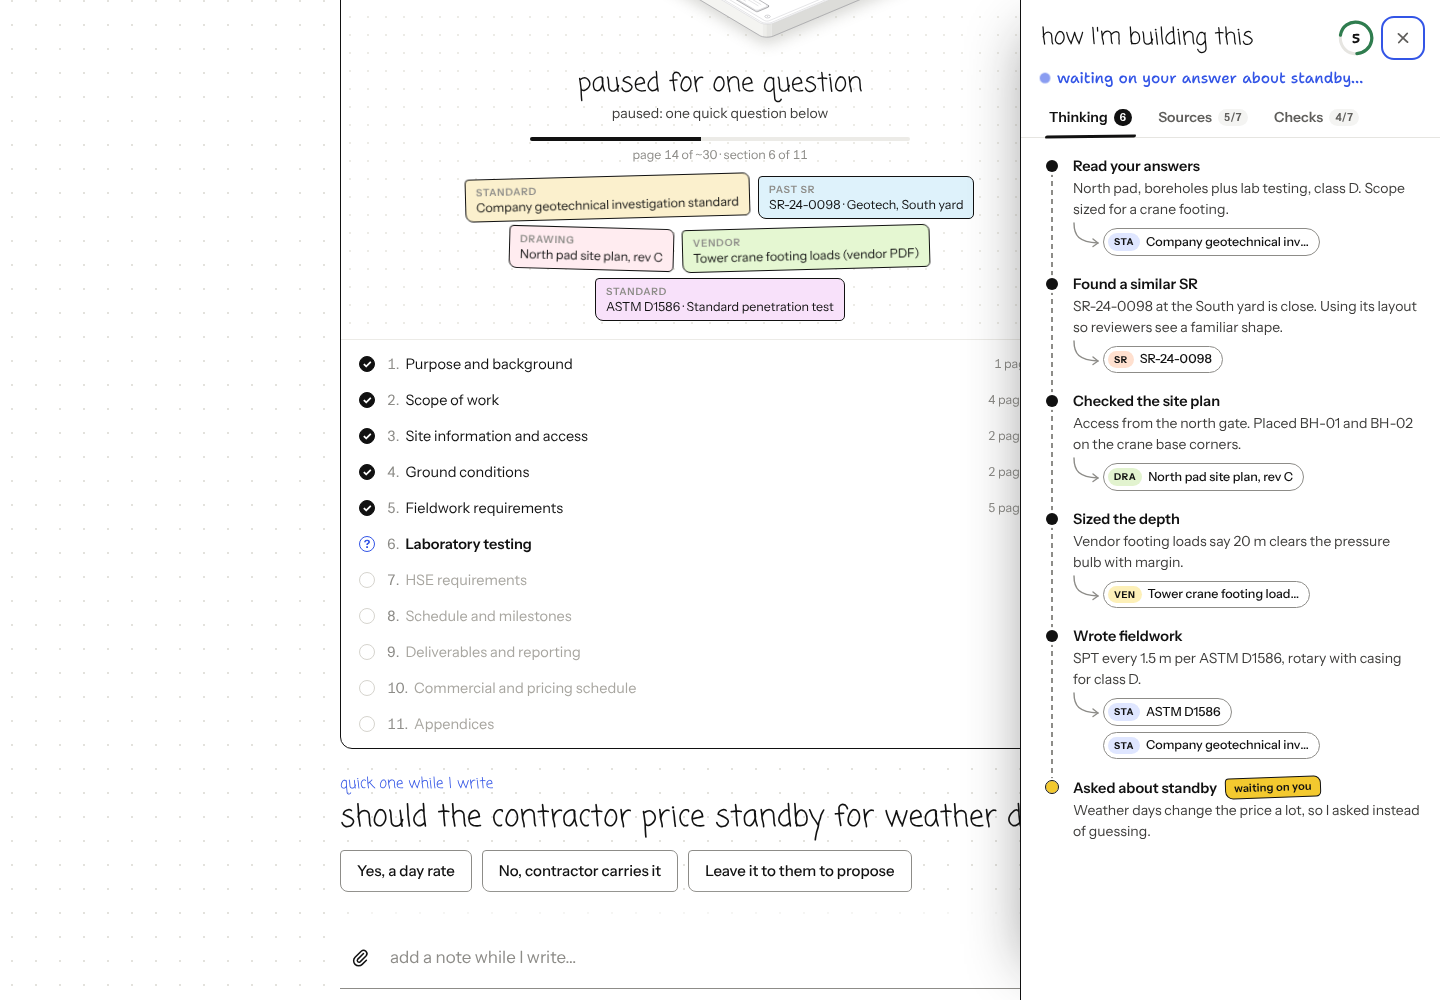
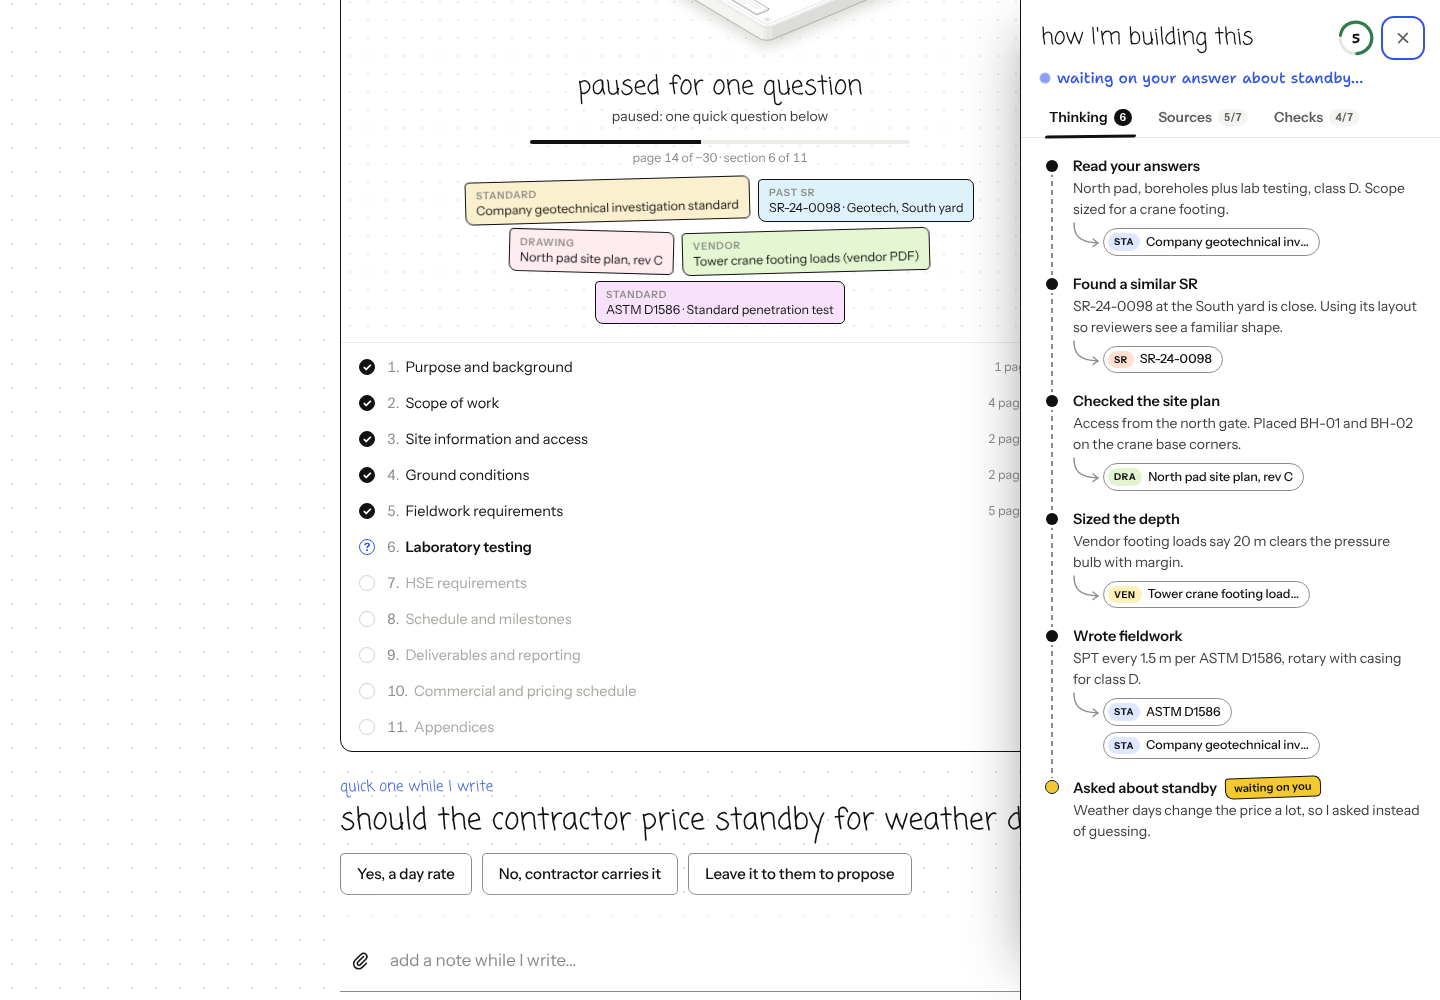
Thinking panel: drop quotes from source cards and preview; sources are internal reference docs

diff --git a/app/src/data/geotechSR.ts b/app/src/data/geotechSR.ts
@@ -58,6 +58,7 @@ export function buildOutline(answers: (string | undefined)[]): Section[] {
 
 export type SourceKind = "STANDARD" | "PAST SR" | "DRAWING" | "VENDOR" | "PROCEDURE" | "TEMPLATE";
 
+/** A reference doc the AI reads. These are stripped internal docs users don't open, so the UI shows name, type and where it was used, never quotes. */
 export interface Source {
   id: string;
   kind: SourceKind;
@@ -67,18 +68,16 @@ export interface Source {
   at: number;
   /** Where in the doc it was used. */
   sec: string;
-  /** A short quote from the source the AI relied on. */
-  quote: string;
 }
 
 export const SOURCES: Source[] = [
-  { id: "std-geo", kind: "STANDARD", title: "Company geotechnical investigation standard", why: "Clause structure, sampling and logging rules.", at: 0, sec: "§1–6", quote: "Samples shall be taken at each change in strata and at intervals not exceeding 1.5 m." },
-  { id: "sr-0098", kind: "PAST SR", title: "SR-24-0098 · Geotech, South yard", why: "A similar job. Reused the layout and the pricing schedule.", at: 1, sec: "§2, §10", quote: "Rates per metre drilled, inclusive of casing to 10 m." },
-  { id: "plan-c", kind: "DRAWING", title: "North pad site plan, rev C", why: "Gate, laydown area and borehole locations.", at: 2, sec: "§3, App. B", quote: "North gate · laydown L2 adjacent batch plant." },
-  { id: "crane-loads", kind: "VENDOR", title: "Tower crane footing loads (vendor PDF)", why: "Why 20 m depth clears the pressure bulb.", at: 3, sec: "§4", quote: "Max. bearing 410 kPa, footing 8.5 × 8.5 m." },
-  { id: "astm-d1586", kind: "STANDARD", title: "ASTM D1586 · Standard penetration test", why: "SPT method and interval in the fieldwork section.", at: 4, sec: "§5", quote: "Drive the sampler 450 mm in three 150 mm increments." },
-  { id: "ptd", kind: "PROCEDURE", title: "Permit to dig procedure", why: "Services scan and permit before each hole.", at: 6, sec: "§7", quote: "No excavation without a valid permit and a CAT scan within 24 h." },
-  { id: "price-tpl", kind: "TEMPLATE", title: "Pricing schedule template", why: "Lump sum, rates per metre, provisional sums.", at: 9, sec: "§10", quote: "Schedule A · Lump sums · Schedule B · Rates · Schedule C · Provisional sums" },
+  { id: "std-geo", kind: "STANDARD", title: "Company geotechnical investigation standard", why: "Clause structure, sampling and logging rules.", at: 0, sec: "§1–6" },
+  { id: "sr-0098", kind: "PAST SR", title: "SR-24-0098 · Geotech, South yard", why: "A similar job. Reused the layout and the pricing schedule.", at: 1, sec: "§2, §10" },
+  { id: "plan-c", kind: "DRAWING", title: "North pad site plan, rev C", why: "Gate, laydown area and borehole locations.", at: 2, sec: "§3, App. B" },
+  { id: "crane-loads", kind: "VENDOR", title: "Tower crane footing loads (vendor PDF)", why: "Why 20 m depth clears the pressure bulb.", at: 3, sec: "§4" },
+  { id: "astm-d1586", kind: "STANDARD", title: "ASTM D1586 · Standard penetration test", why: "SPT method and interval in the fieldwork section.", at: 4, sec: "§5" },
+  { id: "ptd", kind: "PROCEDURE", title: "Permit to dig procedure", why: "Services scan and permit before each hole.", at: 6, sec: "§7" },
+  { id: "price-tpl", kind: "TEMPLATE", title: "Pricing schedule template", why: "Lump sum, rates per metre, provisional sums.", at: 9, sec: "§10" },
 ];
 
 export interface ThoughtStep {

diff --git a/app/src/components/thinking/ThinkingPanel.css b/app/src/components/thinking/ThinkingPanel.css
@@ -174,10 +174,6 @@
   animation: th-slap 300ms var(--ease-slap) both;
 }
 .th-src__title { margin: 8px 0 0; font: 600 14.5px/20px var(--font-sans); }
-.th-quote { position: relative; margin: 8px 0 0; padding: 0; font: 500 15px/21px var(--font-hand); color: var(--ink); }
-.th-quote span { position: relative; z-index: 1; }
-.th-quote__ul { display: block; width: 92%; height: 8px; margin-top: 1px; fill: none; stroke: var(--safety); stroke-width: 2; stroke-linecap: round; opacity: .85; }
-.th-src[data-state="queued"] .th-quote__ul, .th-src[data-state="later"] .th-quote__ul { stroke: var(--rule); }
 .th-src__why { margin: 6px 0 0; font: 400 13px/18px var(--font-sans); color: var(--ink-muted); }
 .th-src__foot { display: flex; align-items: center; justify-content: space-between; gap: 8px; margin-top: 10px; flex-wrap: wrap; }
 .th-cites { display: inline-flex; align-items: center; gap: 6px; flex-wrap: wrap; }
@@ -218,7 +214,7 @@
 }
 .th-pop:popover-open { animation: th-pop 200ms var(--ease-out) both; }
 .th-pop__title { font: 600 14px/19px var(--font-sans); }
-.th-pop__quote { font: 500 15px/21px var(--font-hand); }
+.th-pop__why { font-size: 13px; line-height: 18px; color: var(--ink-muted); }
 .th-pop__sec { font: 500 12px/1 var(--font-sans); color: var(--ink-muted); }
 
 /* ---------- handle ---------- */

diff --git a/app/src/components/thinking/ThinkingPanel.tsx b/app/src/components/thinking/ThinkingPanel.tsx
@@ -247,10 +247,6 @@ export function ThinkingPanel({ open, onClose, phase, done, answers, onJumpToSec
                       {st === "used" && <span key="stamp" className="th-stamp" aria-hidden="true">used</span>}
                     </div>
                     <p className="th-src__title">{s.title}</p>
-                    <blockquote className="th-quote">
-                      <span>{s.quote}</span>
-                      <svg className="th-quote__ul" viewBox="0 0 200 8" preserveAspectRatio="none" aria-hidden="true"><path d="M2 5 C 40 2, 80 7, 120 4 S 180 3, 198 5" /></svg>
-                    </blockquote>
                     <p className="th-src__why">{s.why}</p>
                     <div className="th-src__foot">
                       {st === "used" || finished ? (
@@ -304,7 +300,7 @@ export function ThinkingPanel({ open, onClose, phase, done, answers, onJumpToSec
           <>
             <span className="th-kind" data-kind={preview.kind}>{preview.kind}</span>
             <strong className="th-pop__title">{preview.title}</strong>
-            <span className="th-pop__quote">“{preview.quote}”</span>
+            <span className="th-pop__why">{preview.why}</span>
             <span className="th-pop__sec">used in {preview.sec}</span>
           </>
         )}
